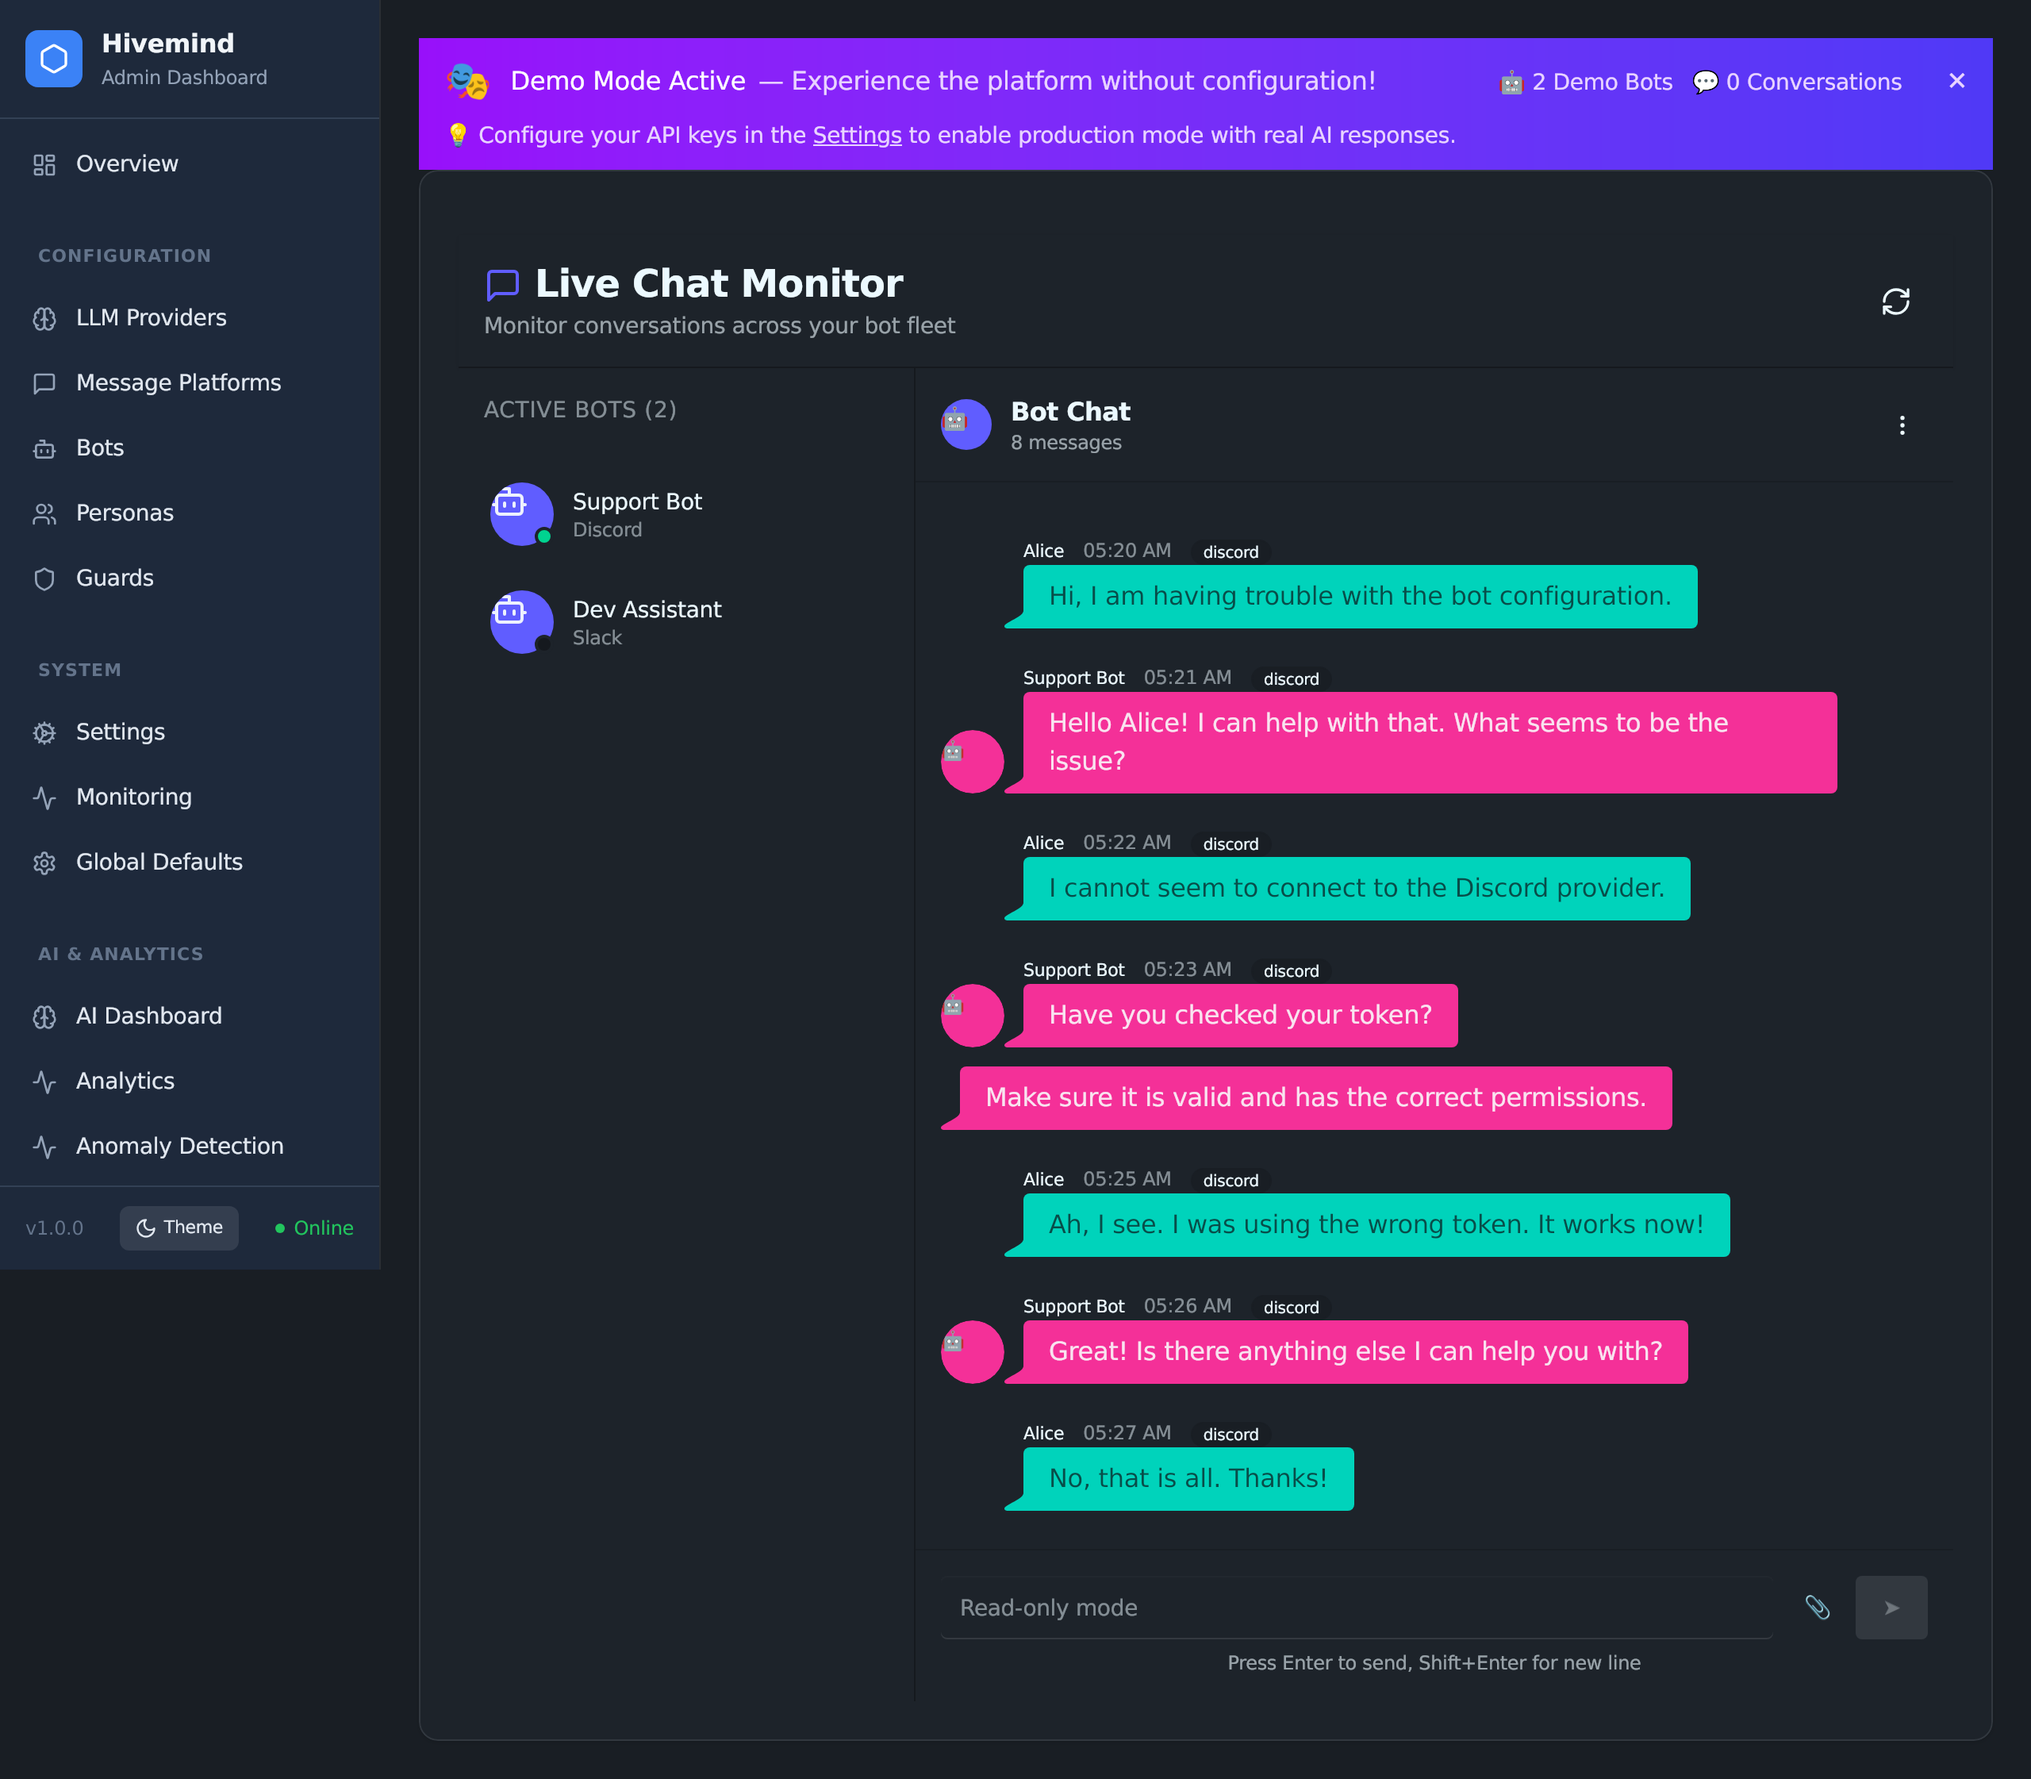
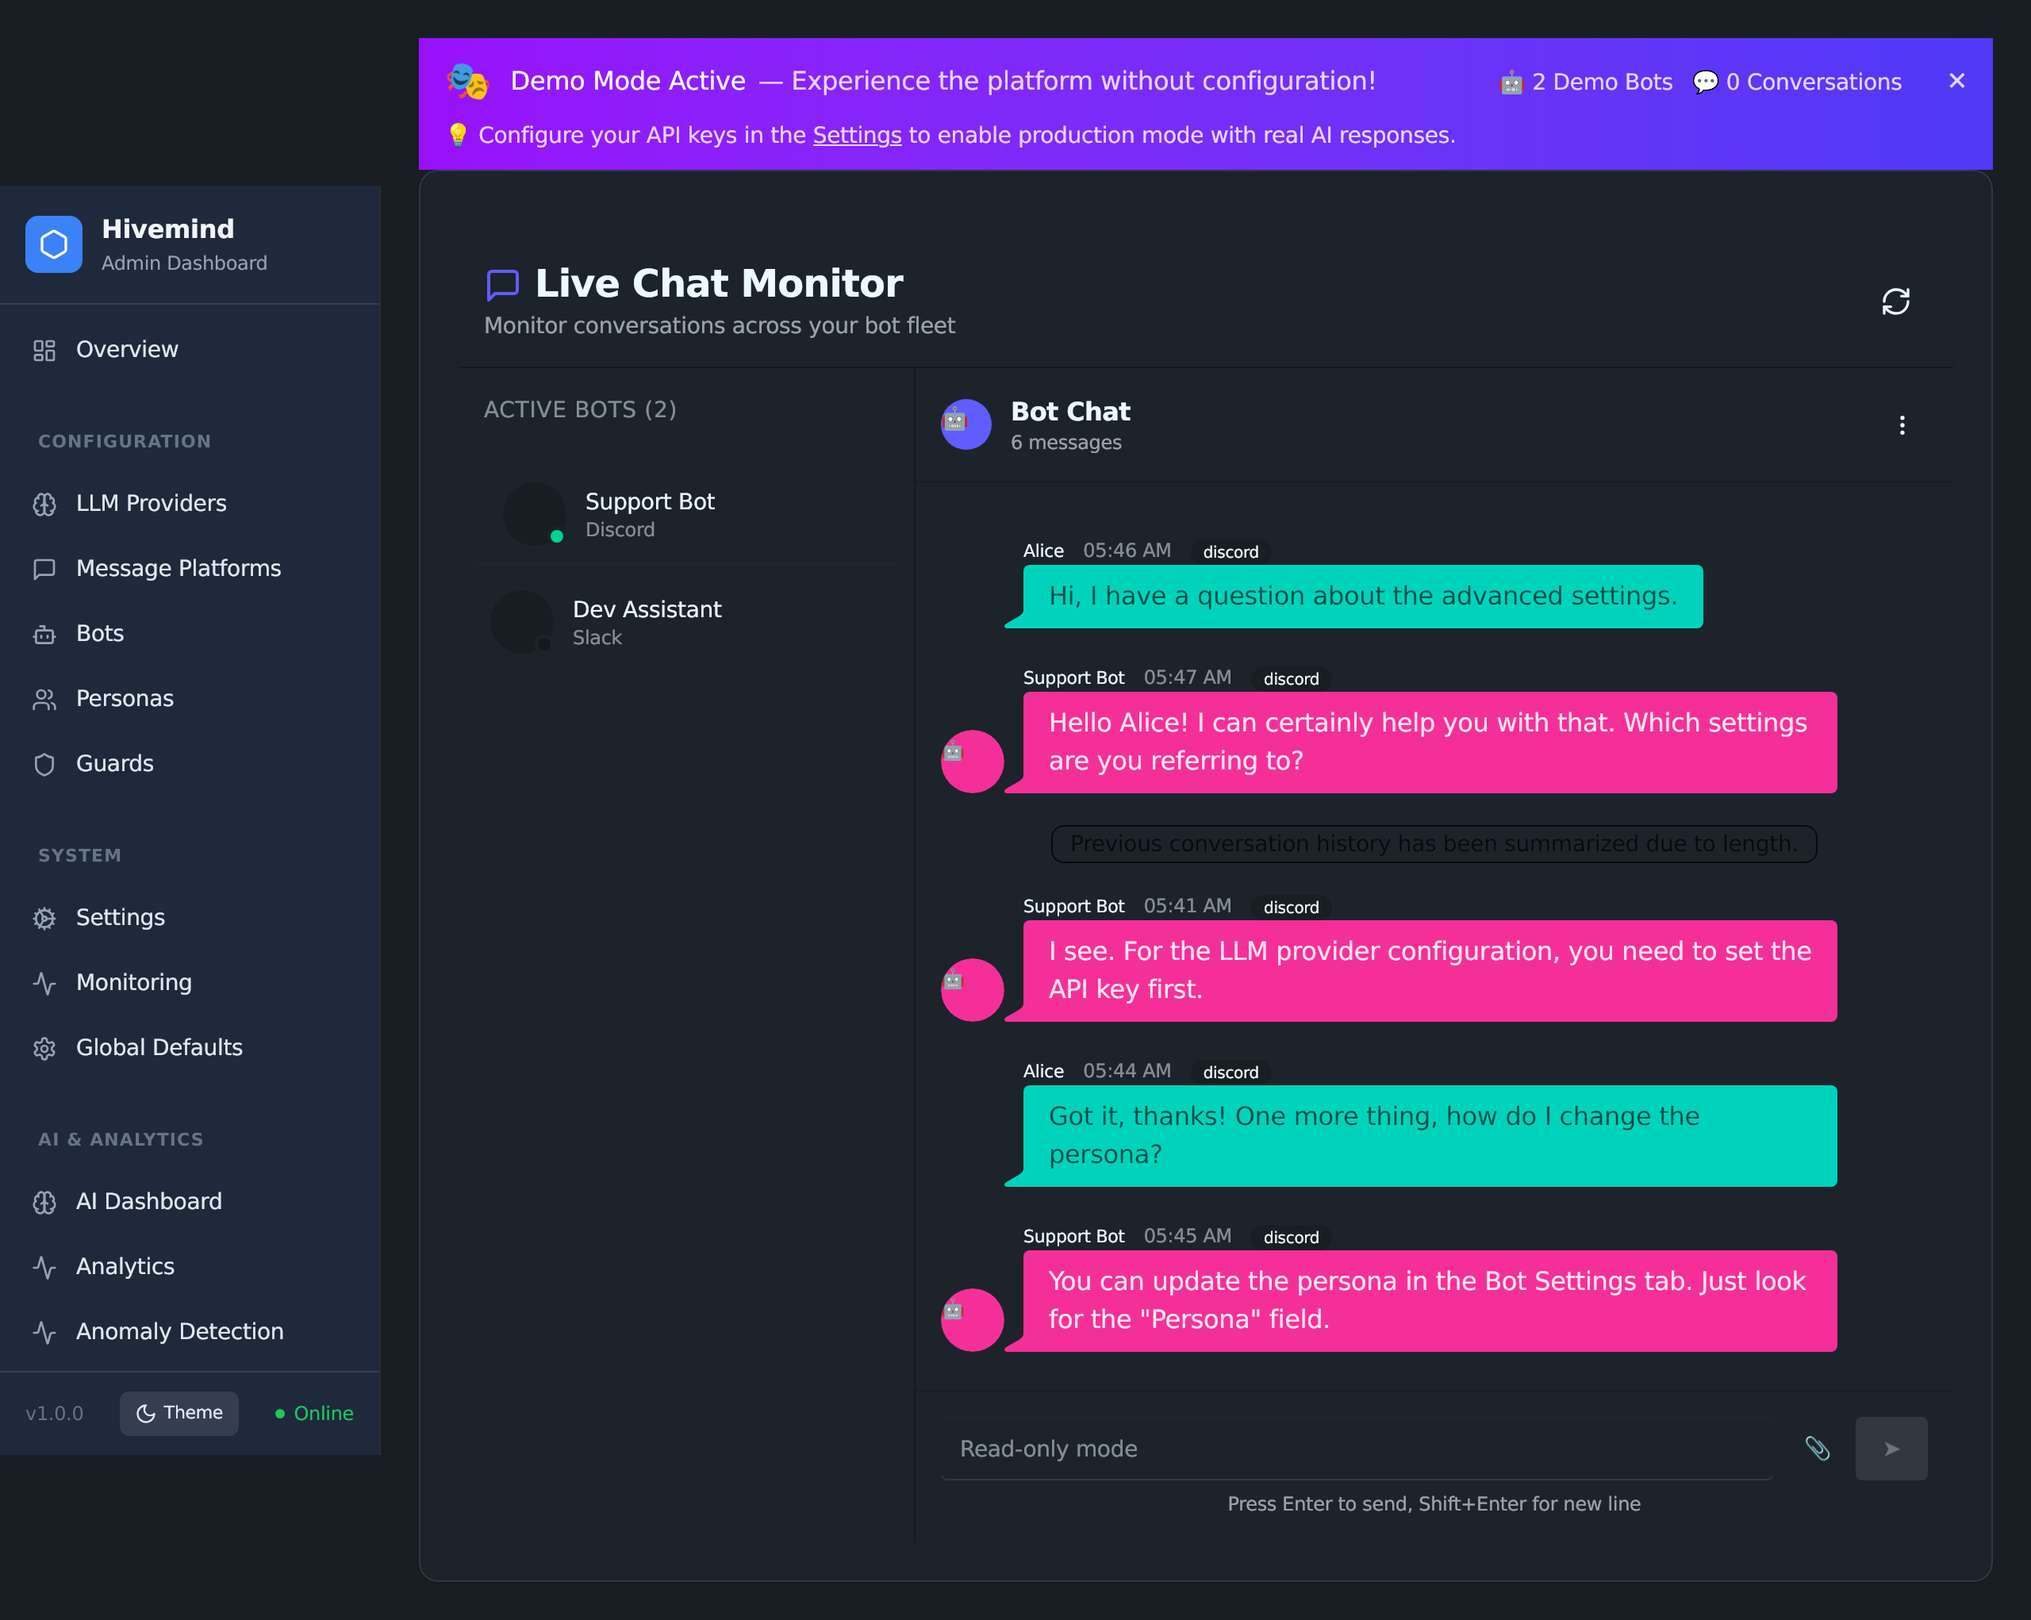
feat: add rollup support for chat history in screenshots (#581)

diff --git a/tests/e2e/screenshot-chat.spec.ts b/tests/e2e/screenshot-chat.spec.ts
@@ -73,32 +73,38 @@ test.describe('Chat Monitor Screenshots', () => {
                 history: [
                     {
                         id: 'msg-1',
-                        content: 'Hi, I am having trouble with the bot configuration.',
-                        createdAt: new Date(Date.now() - 1000 * 60 * 30).toISOString(),
+                        content: 'Hi, I have a question about the advanced settings.',
+                        createdAt: new Date(Date.now() - 1000 * 60 * 60 * 24).toISOString(),
                         author: { id: 'user-1', username: 'Alice', bot: false, avatar: 'https://ui-avatars.com/api/?name=Alice' }
-                    },
-                     {
-                        id: 'msg-rollup',
-                        content: 'Previous conversation history summarized due to length...',
-                        createdAt: new Date(Date.now() - 1000 * 60 * 30).toISOString(),
-                        author: { id: 'system', username: 'System', role: 'system', bot: false }
                     },
                     {
                         id: 'msg-2',
-                        content: 'Hello Alice! I can help with that. What seems to be the issue?',
-                        createdAt: new Date(Date.now() - 1000 * 60 * 29).toISOString(),
+                        content: 'Hello Alice! I can certainly help you with that. Which settings are you referring to?',
+                        createdAt: new Date(Date.now() - 1000 * 60 * 60 * 24 + 1000 * 60).toISOString(),
                         author: { id: 'bot-1', username: 'Support Bot', bot: true }
                     },
                     {
                         id: 'msg-3',
-                        content: 'I cannot seem to connect to the Discord provider.',
-                        createdAt: new Date(Date.now() - 1000 * 60 * 28).toISOString(),
-                        author: { id: 'user-1', username: 'Alice', bot: false, avatar: 'https://ui-avatars.com/api/?name=Alice' }
+                        content: 'Previous conversation history has been summarized due to length.',
+                        createdAt: new Date(Date.now() - 1000 * 60 * 30).toISOString(),
+                        author: { id: 'system', username: 'System', role: 'system', bot: false }
                     },
                     {
                         id: 'msg-4',
-                        content: 'Have you checked your token?',
-                        createdAt: new Date(Date.now() - 1000 * 60 * 27).toISOString(),
+                        content: 'I see. For the LLM provider configuration, you need to set the API key first.',
+                        createdAt: new Date(Date.now() - 1000 * 60 * 5).toISOString(),
+                        author: { id: 'bot-1', username: 'Support Bot', bot: true }
+                    },
+                    {
+                        id: 'msg-5',
+                        content: 'Got it, thanks! One more thing, how do I change the persona?',
+                        createdAt: new Date(Date.now() - 1000 * 60 * 2).toISOString(),
+                        author: { id: 'user-1', username: 'Alice', bot: false, avatar: 'https://ui-avatars.com/api/?name=Alice' }
+                    },
+                    {
+                        id: 'msg-6',
+                        content: 'You can update the persona in the Bot Settings tab. Just look for the "Persona" field.',
+                        createdAt: new Date(Date.now() - 1000 * 30).toISOString(),
                         author: { id: 'bot-1', username: 'Support Bot', bot: true }
                     },
                     {
@@ -142,7 +148,10 @@ test.describe('Chat Monitor Screenshots', () => {
     await page.click('button:has-text("Support Bot")');
 
     // Wait for chat to load
-    await expect(page.getByText('Hello Alice! I can help with that.')).toBeVisible();
+    await expect(page.getByText('Hi, I have a question about the advanced settings.')).toBeVisible();
+
+    // Verify rollup message is visible
+    await expect(page.getByText('Previous conversation history has been summarized due to length.')).toBeVisible();
 
     // Take screenshot
     await page.screenshot({ path: 'docs/screenshots/chat-monitor.png', fullPage: true });
